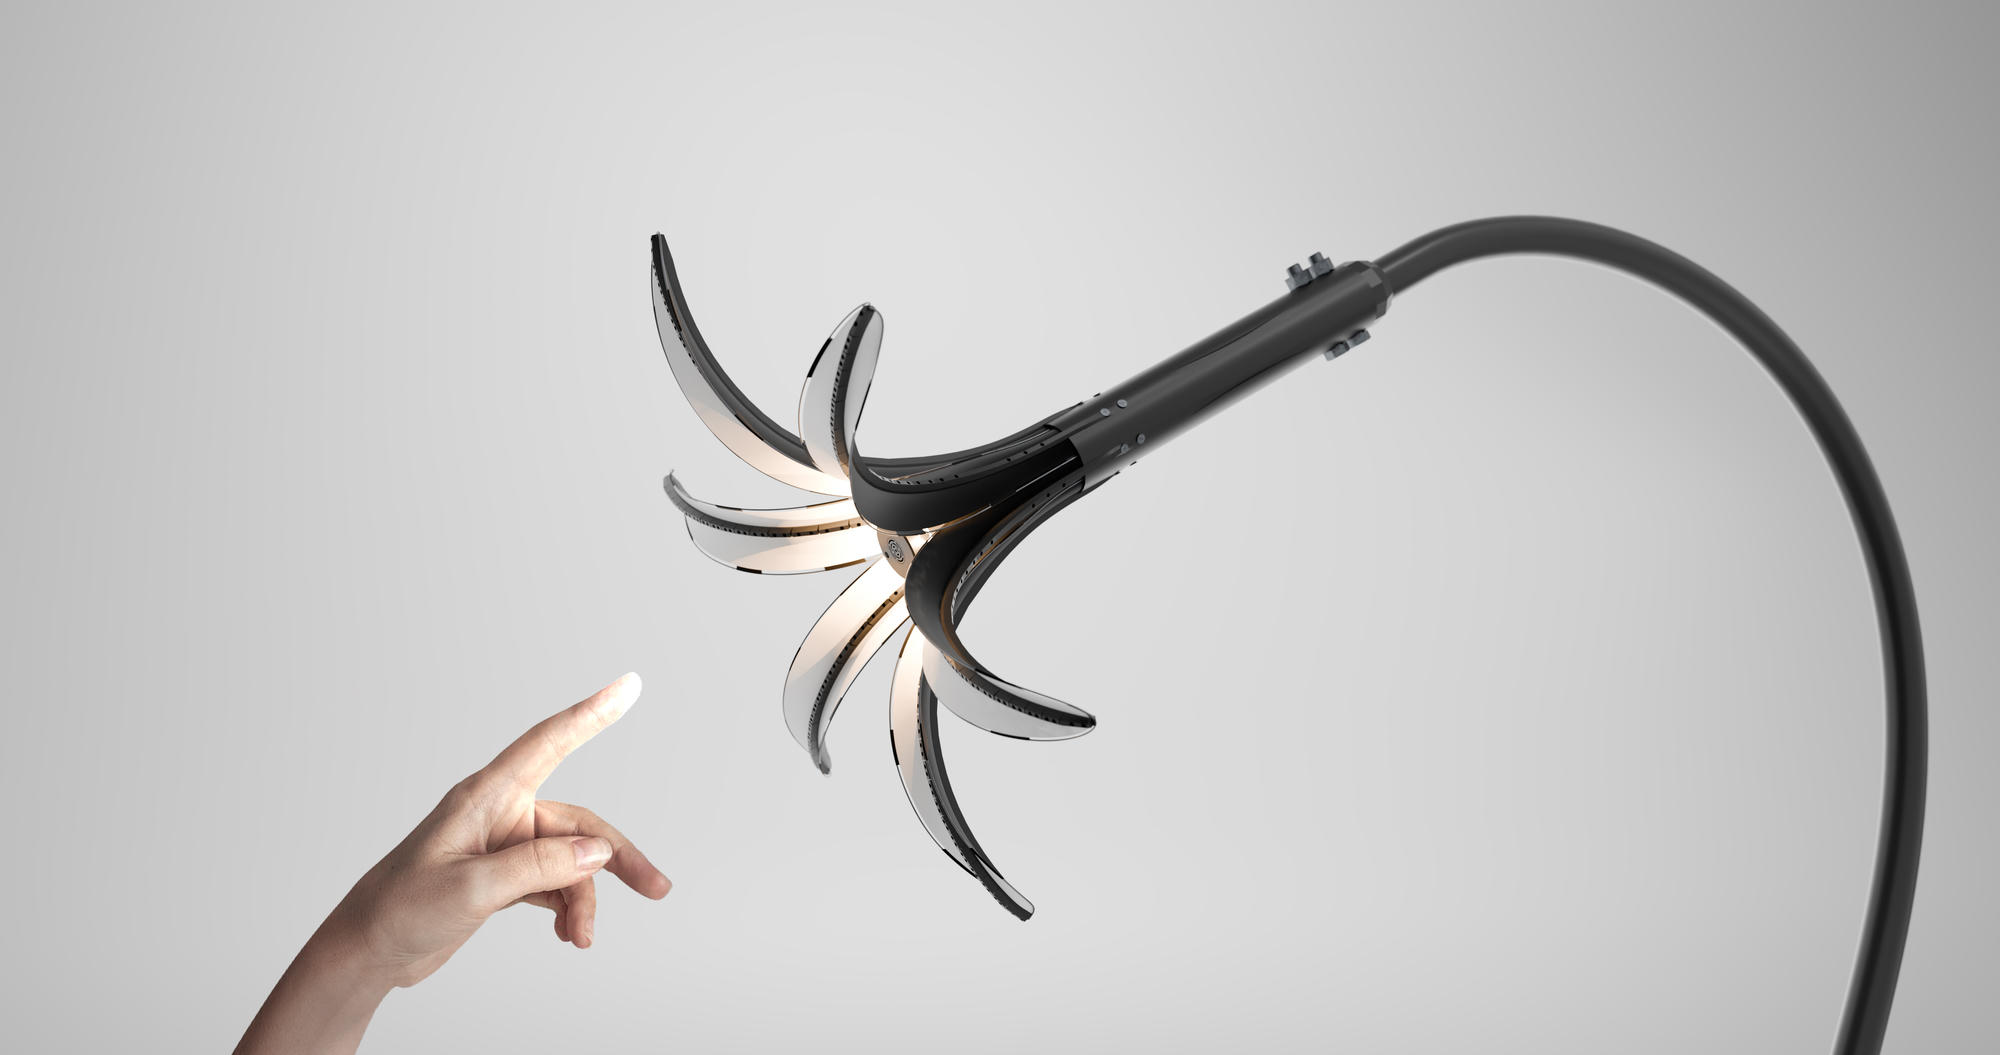
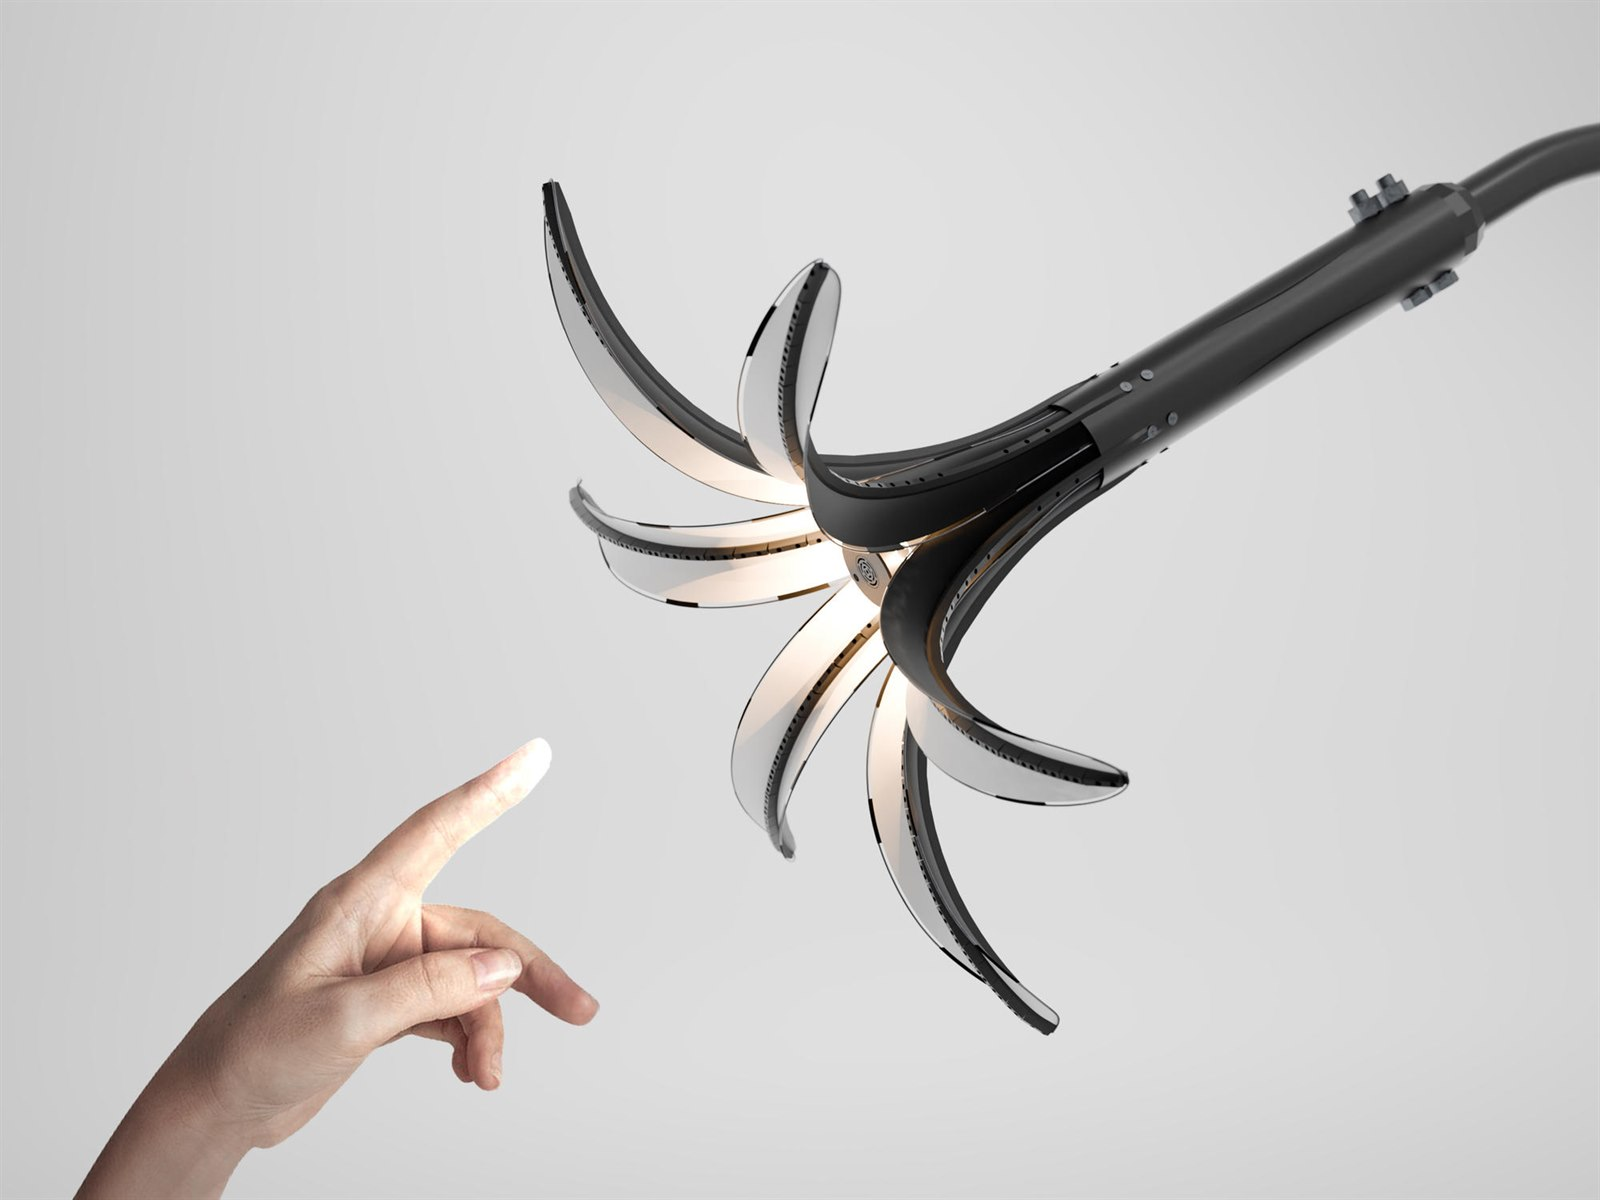
Replace product preview and isolate hover tab expansion

Changed region(s): [[0.3125, 0.0, 1.0, 1.0], [0.0312, 0.6066, 0.375, 1.0]]

diff --git a/styles.css b/styles.css
@@ -154,11 +154,13 @@ html{scroll-padding-top:5vh}
   transform:translateY(-50%);
   display:flex;
   flex-direction:column;
+  align-items:flex-end;
   gap:14px;
   z-index:4;
 }
 #graphic .experience-tab{
   position:relative;
+  flex:0 0 auto;
   width:58px;
   height:150px;
   border:none;
@@ -245,6 +247,7 @@ body{scroll-snap-type:y mandatory}
     left:auto;
     transform:none;
     flex-direction:row;
+    align-items:stretch;
     gap:10px;
     margin-bottom:1.5rem;
   }
